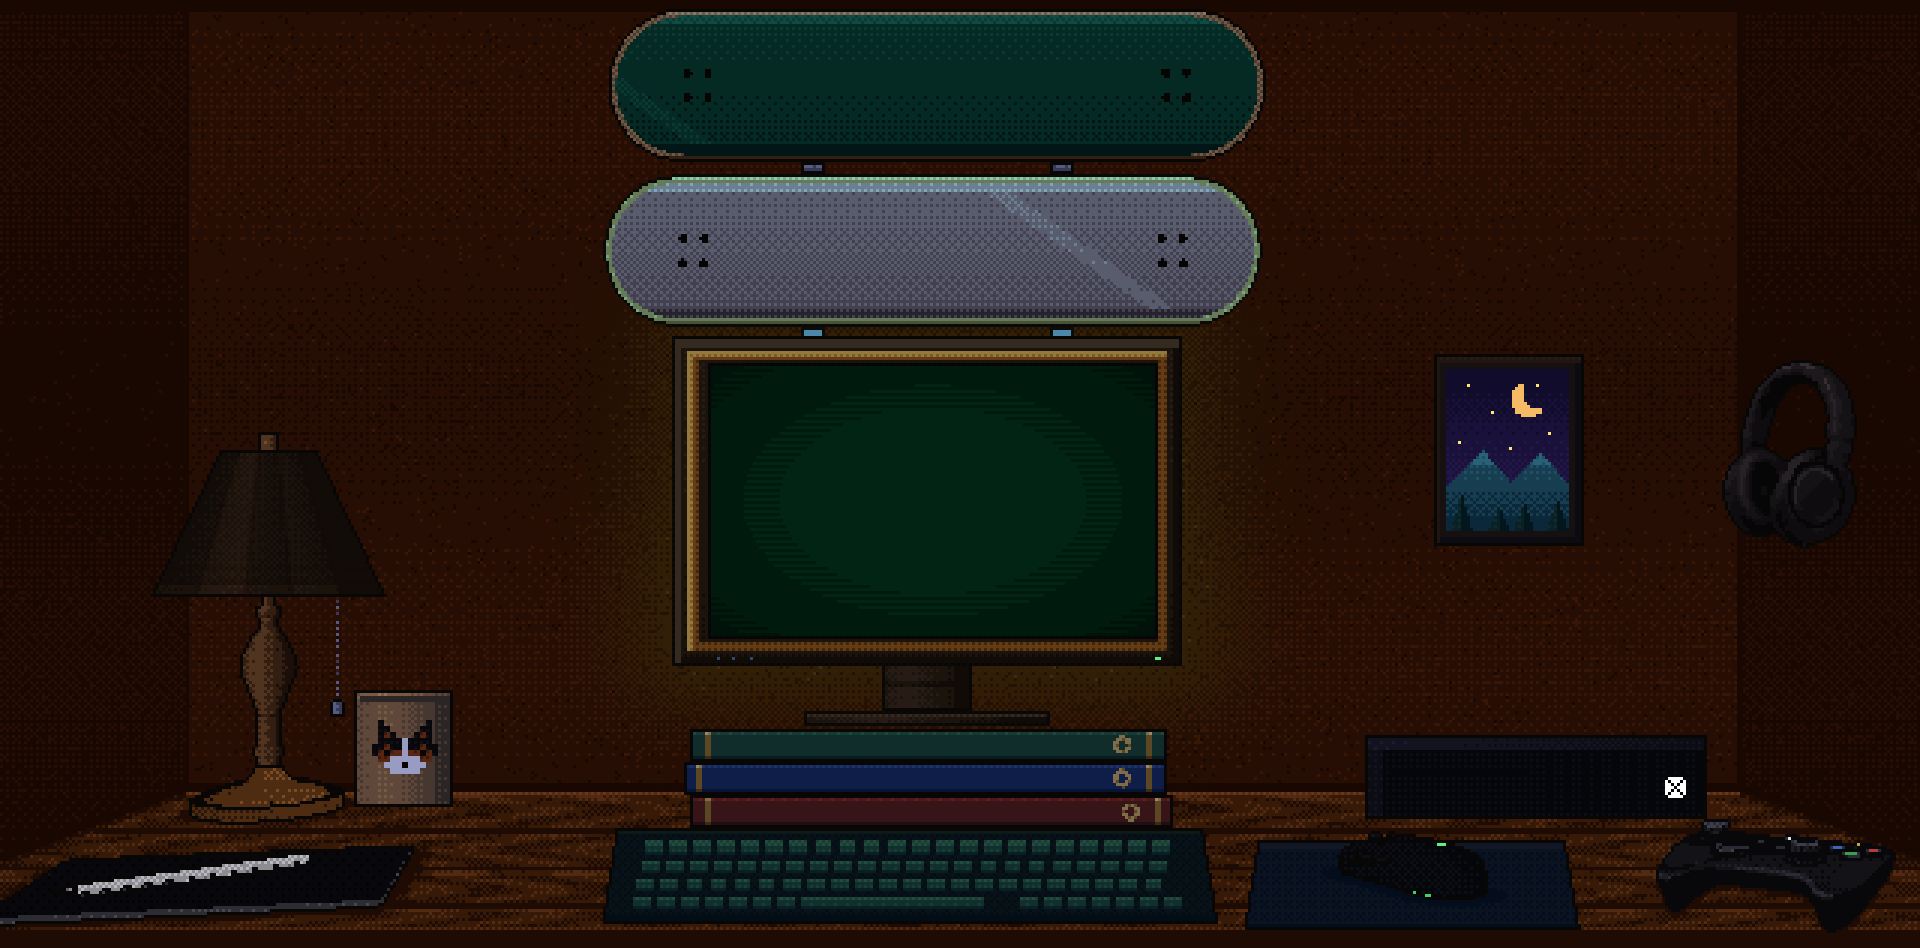
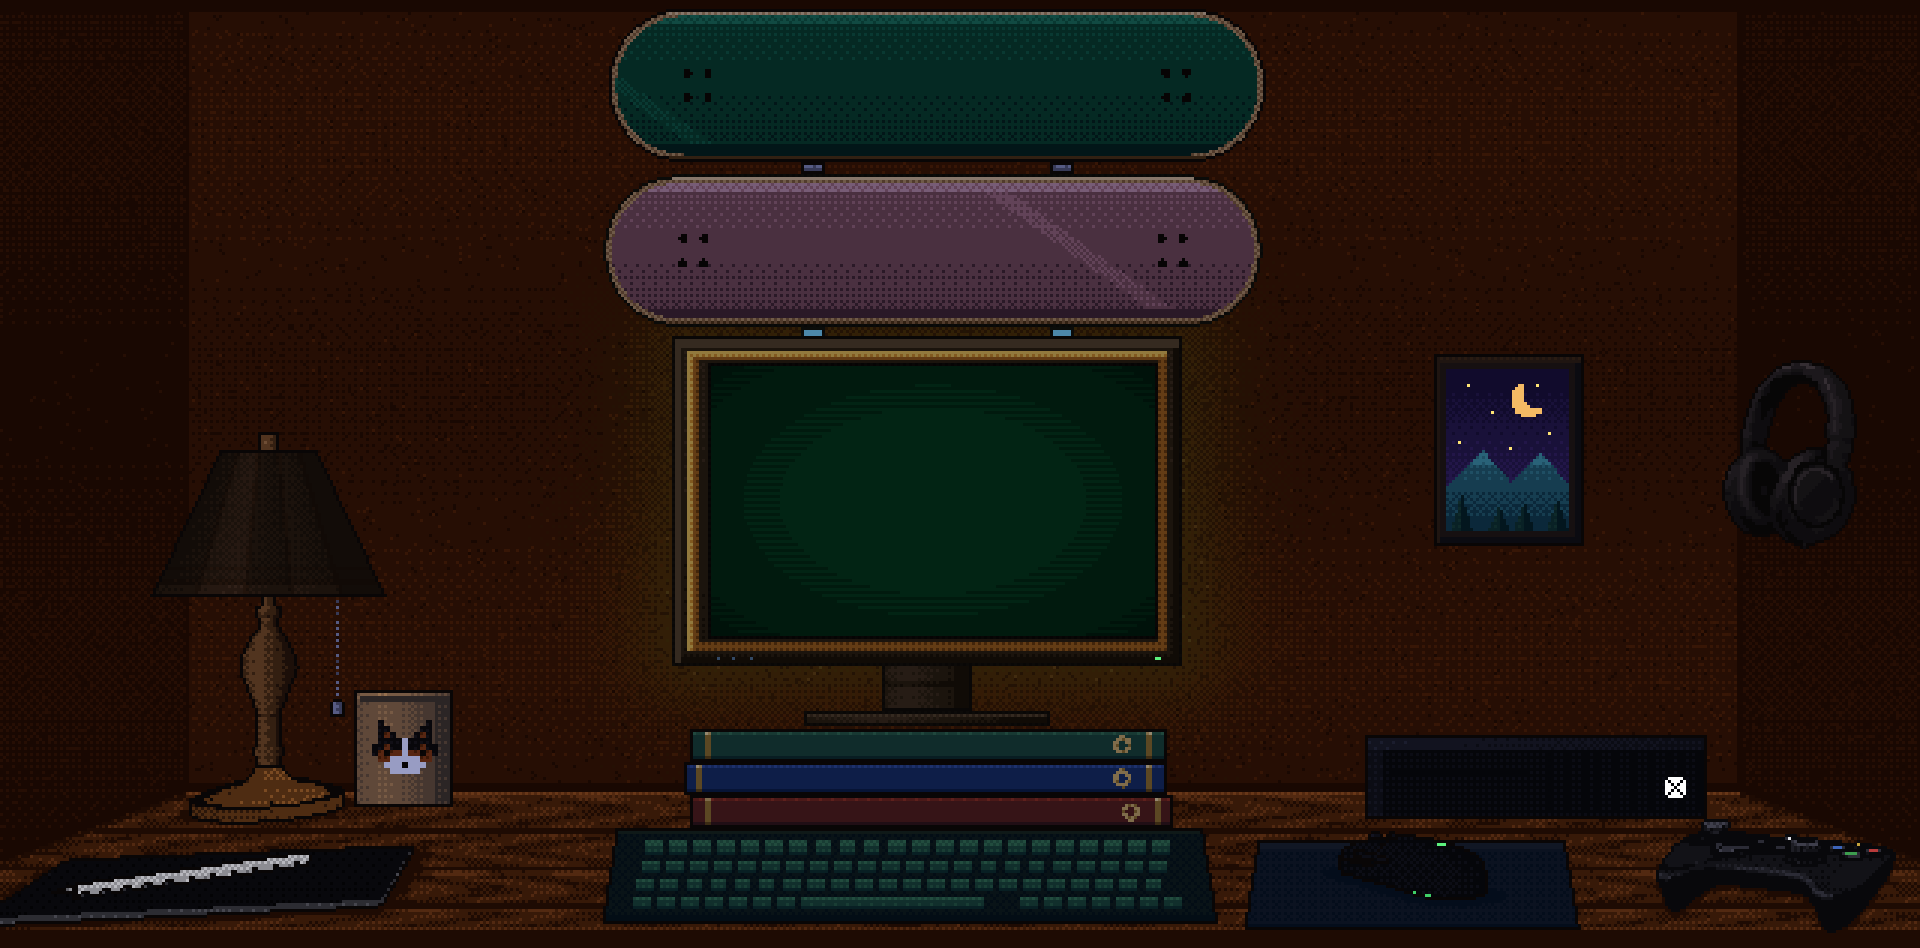
Lamp off: the school deck stays plum and just goes dark, instead of the monitor's glow turning it blue-grey

Changed region(s): [[0.3125, 0.1835, 0.6562, 0.3671]]

diff --git a/scripts/desk-room.js b/scripts/desk-room.js
@@ -785,6 +785,9 @@ function drawRoom(theme, on, lavaOn = true, opt = {}) {
   }
   // ------------------------------------------------ light
   const out = new Uint8ClampedArray(WW * RH * 4);
+  // the decks keep their own colours in the dark: the monitor's glow lights the wall above it, but tinting the low
+  // deck turned its plum blue-grey (the high one sits out of reach), so they only go dark under the room's night
+  const deckRamps = new Set(['deckA', 'deckB', 'deckAText', 'deckBText', 'deckWood'].map((nm) => rampId.get(nm)).filter((r) => r !== undefined));
   for (let Y = -OT; Y < H + OB; Y++) for (let X = 0; X < WW; X++) {
     const i = (Y + OT) * WW + X, o = i * 4;
     out[o + 3] = 255;
@@ -800,7 +803,8 @@ function drawRoom(theme, on, lavaOn = true, opt = {}) {
       else lamp = Math.exp(-((Math.hypot((x - 68) / 2.5, (y - 199) / 0.75) / 42) ** 2));
     }
     const dxs = Math.max(170 - x, 0, x - 277), dys = Math.max(87 - y, 0, y - 153);
-    const mon = Math.exp(-((Math.hypot(dxs, dys * 1.15) / 20) ** 2)) * (on ? 0.4 : 1);
+    const onDeck = deckRamps.has(r) && y < 80; // deckWood is the skirting too, far below
+    const mon = onDeck && !on ? 0 : Math.exp(-((Math.hypot(dxs, dys * 1.15) / 20) ** 2)) * (on ? 0.4 : 1);
     // the lava lamp: a soft pink pool on the wall round its glass, and one on the desk at its foot
     const lava = !lavaOn ? 0 : onWall(x, y) ? Math.exp(-((Math.hypot(x - 310, (y - 160) * 0.85) / 40) ** 2)) : Math.exp(-((Math.hypot((x - 310) / 2.4, (y - 199) / 0.8) / 24) ** 2));
     const shift = (on ? lamp * 2.3 - 0.25 + theme.ambient : -1.05 + theme.ambient + mon * 0.9) + lava * (on ? 0.7 : 1.5);
